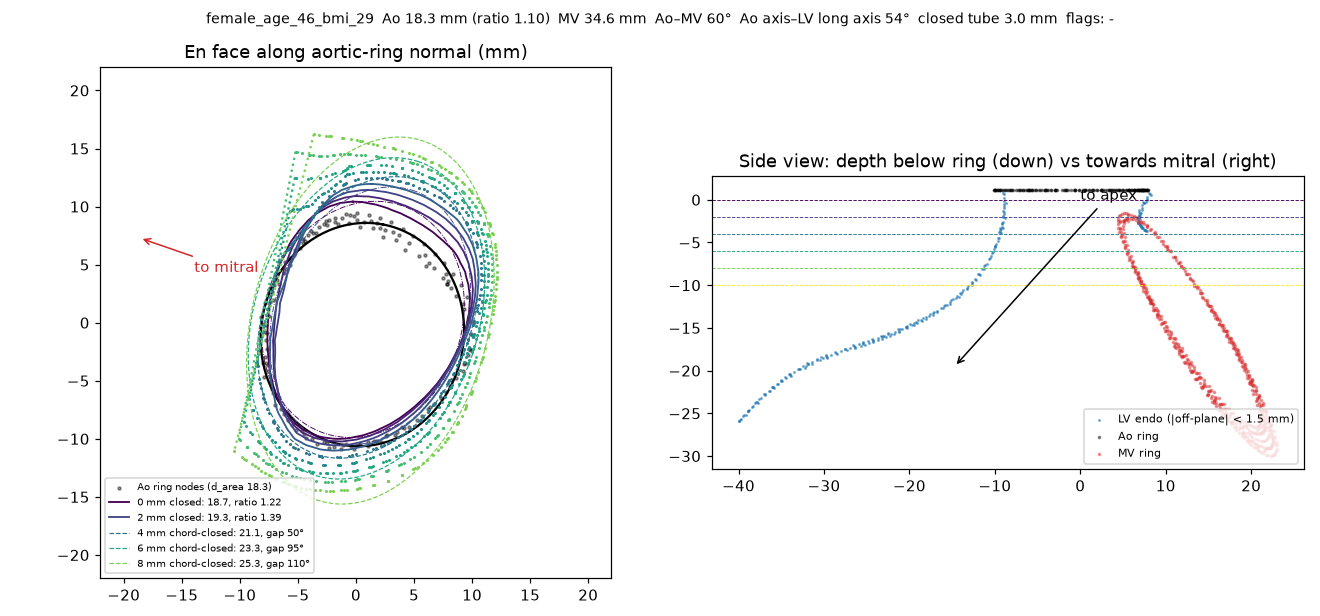
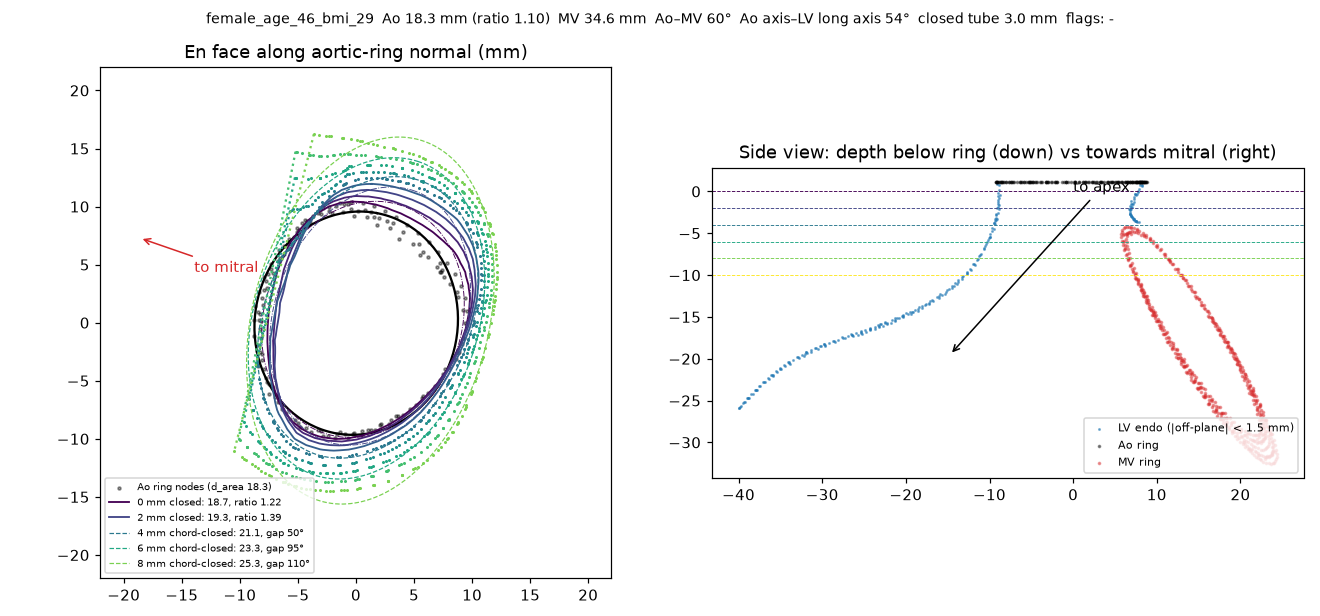
Code review fixes: STEP 9 ring reconstruction, 4 mm exclusion reason, computed title, sync README rule

diff --git a/scripts/02_qc_render.py b/scripts/02_qc_render.py
@@ -41,9 +41,10 @@ for mid in ids:
     fig, axs = plt.subplots(1, 2, figsize=(12, 5.6))
     ax = axs[0]
     # ring (projected relative to section origin, which is on the ring axis)
-    rc = ao["centre"] - (org - ao["band_max_depth"] * n)  # zero
-    ax.scatter(ao["xy"][:, 0], ao["xy"][:, 1], s=4, c="k", alpha=.4, label=f"Ao ring nodes (d_area {ao['d_area']:.1f})")
-    ax.plot(*ell_xy(ao["ell"]).T, "k-", lw=1.5)
+    # ao["xy"] and ao["ell"] are relative to the node mean; shift them to the section origin (on the ring axis)
+    cxy = np.array([(ao["centre"] - ao["plane_origin"]) @ e1, (ao["centre"] - ao["plane_origin"]) @ e2])
+    ax.scatter(*(ao["xy"] - cxy).T, s=4, c="k", alpha=.4, label=f"Ao ring nodes (d_area {ao['d_area']:.1f})")
+    ax.plot(*(ell_xy(ao["ell"]) - cxy).T, "k-", lw=1.5)
     cmap = plt.get_cmap("viridis")
     for s in G["sections"]:
         col = cmap(s["depth"] / 10)
@@ -78,7 +79,7 @@ for mid in ids:
     sel = (np.abs(perp) < 1.5) & (dep > -8) & (dep < 30) & (np.abs(side) < 40)
     ax.scatter(side[sel], -dep[sel], s=1, c="tab:blue", alpha=.5, label="LV endo (|off-plane| < 1.5 mm)")
     for name, R, c in (("Ao ring", ao, "k"), ("MV ring", mv, "tab:red")):
-        Xr = R["xy"][:, 0][:, None] * R["e1"] + R["xy"][:, 1][:, None] * R["e2"] + (R["centre"] - R["xy"].mean(0)[0] * R["e1"] - R["xy"].mean(0)[1] * R["e2"]) - org
+        Xr = R["xy"][:, 0][:, None] * R["e1"] + R["xy"][:, 1][:, None] * R["e2"] + R["plane_origin"] - org
         ax.scatter(Xr @ u3, -(Xr @ n), s=2, c=c, alpha=.4, label=name)
     for d in (0, 2, 4, 6, 8, 10):
         ax.axhline(-d, color=cmap(d / 10), lw=.6, ls="--")

diff --git a/src/lvot.py b/src/lvot.py
@@ -233,12 +233,13 @@ def ring_measure(X: np.ndarray, into_lv: np.ndarray, nbins: int = P_["ring_bins"
     el = me
     centre3 = c + cen[0] * e1 + cen[1] * e2
     return {
-        "centre": centre3, "normal": n, "e1": e1, "e2": e2, "n_nodes": len(X),
+        "centre": centre3, "plane_origin": c, "normal": n, "e1": e1, "e2": e2, "n_nodes": len(X),
         "dmax": me["dmax"], "dmin": me["dmin"], "theta": me["theta"],
         "feret_max": me["feret_max"], "feret_min": me["feret_min"],
         "d_area": 2 * np.sqrt(area / np.pi), "d_perim": perim / np.pi,
         "area": area, "cover": cover, "planarity_rms": float(np.sqrt(np.mean(d ** 2))),
-        "band_max_depth": float(d.max()), "xy": xy, "poly": poly + cen, "ell": el,
+        "band_max_depth": float(d.max()), "poly": poly + cen, "ell": el,
+        "xy": xy,  # relative to plane_origin (node mean), not to centre
     }
 
 

diff --git a/scripts/03_analysis.py b/scripts/03_analysis.py
@@ -61,8 +61,9 @@ for m in d.mesh_id[d["lvot2_d_area"].isna() & d["ao_d_area"].notna()]:
     r = d.loc[d.mesh_id == m, "section_reasons"].iloc[0]
     excl.append((m, "LVOT 2 mm (strict)", "section at 2 mm not a closed tube: " + str(r)[:120]))
 for m in d.mesh_id[d["lvot4cc_d_area"].isna() & d["ao_d_area"].notna()]:
-    g = d.loc[d.mesh_id == m, "lvot4cc_gap_deg"].iloc[0]
-    excl.append((m, "LVOT 4 mm (chord-closed)", f"gap {g:.0f} deg > 120"))
+    g, r = d.loc[d.mesh_id == m, ["lvot4cc_gap_deg", "section_reasons"]].iloc[0]
+    why = f"gap {g:.0f} deg > 120" if g > 120 else "section at 4 mm not chord-closed: " + str(r)[:120]
+    excl.append((m, "LVOT 4 mm (chord-closed)", why))
 if flags.str.contains("surface_regions").any():
     for m in d.mesh_id[flags.str.contains("surface_regions")]:
         excl.append((m, "note (kept)", "unexpected number of surface components"))

diff --git a/scripts/13_size_by_age_figure.py b/scripts/13_size_by_age_figure.py
@@ -92,7 +92,7 @@ axs[0].set_ylabel(f"{'Outline area' if AREA else 'Area-derived diameter'}, {UNIT
 axs[0].set_ylim(lo_ - pad * 1.0, hi_ + pad * 1.4)
 dmed = np.median(np.concatenate([STATS[m].d_med.values for m, _, _ in PANELS]))
 TITLE = (f"Men's outflow area is ~{round(dmed, -1):.0f} mm² larger at every age" if AREA
-         else "Men's outflow is ~3 mm wider at every age")
+         else f"Men's outflow is ~{dmed:.0f} mm wider at every age")
 fig.suptitle(TITLE, fontsize=16, fontweight="bold", y=0.99)
 fig.text(0.5, 0.01, "Medians of the same-age, same-BMI pairs per age block; error bars and values in parentheses = interquartile range",
          ha="center", fontsize=10, color="0.4")

diff --git a/src/wall.py b/src/wall.py
@@ -50,7 +50,7 @@ def wall_geometry(G: dict) -> dict:
     thick = np.where(septal, d_rv, d_epi)
 
     ao, mv = G["rings"]["ao"], G["rings"]["mv"]
-    ring_pts = np.vstack([r["centre"] + r["xy"] @ np.vstack([r["e1"], r["e2"]]) for r in (ao, mv)])
+    ring_pts = np.vstack([r["plane_origin"] + r["xy"] @ np.vstack([r["e1"], r["e2"]]) for r in (ao, mv)])
     keep = cKDTree(ring_pts).query(X)[0] > W_["ring_exclude_mm"]
 
     # STEP 9.3 — long-axis frame and segments

diff --git a/docs/DECISIONS.md b/docs/DECISIONS.md
@@ -140,3 +140,6 @@ One entry per choice: what was tried, what was seen, what was decided, and where
     - **Finding in clinical terms:** a wider clinical AMA goes with a more elliptical LVOT.
     - **Spread:** in the meshes, clinical AMA is a median of 120.5° in women and 116.7° in men, SD 2.6° within sex (patients: about 10°).
     - **Literature review:** see [LIT_aorto_mitral_angle.md](LIT_aorto_mitral_angle.md). A wider AMA goes with LV and mitral-annulus enlargement. A narrower one goes with age, a small hyperdynamic LV, aortic elongation, HCM and SAM. The meshes agree: within sex, a wider AMA goes with larger EDV, a larger mitral annulus, a longer LV and younger age.
+38. **Code review fixes (2026-11-16).**
+    - **Ring points in STEP 9:** `src/wall.py` rebuilt the aortic and mitral ring nodes from the fitted ring centre instead of the node mean, so the rebuilt rings were shifted (about 0.4–1.2 mm aortic, 2.6–3.0 mm mitral in 3 test meshes). The 6 mm ring exclusion zone was therefore off-centre. Fixed by storing `plane_origin` (node mean) in the ring data. Effect on 2 test meshes: at most 0.05 mm in basal septal thickness, ≤ 0.01 elsewhere. STEPS 1–8 do not use this reconstruction and are unchanged. The QC renders (`02_qc_render.py`) had the same shift and were redrawn.
+    - **Smaller fixes:** the 4 mm exclusion reason now says "gap > 120°" only when that is the cause (0 other cases now); the size-by-age title computes the gap instead of hard-coding "~3 mm"; the sync script excludes `/README.md` so a source README can't overwrite ours.
